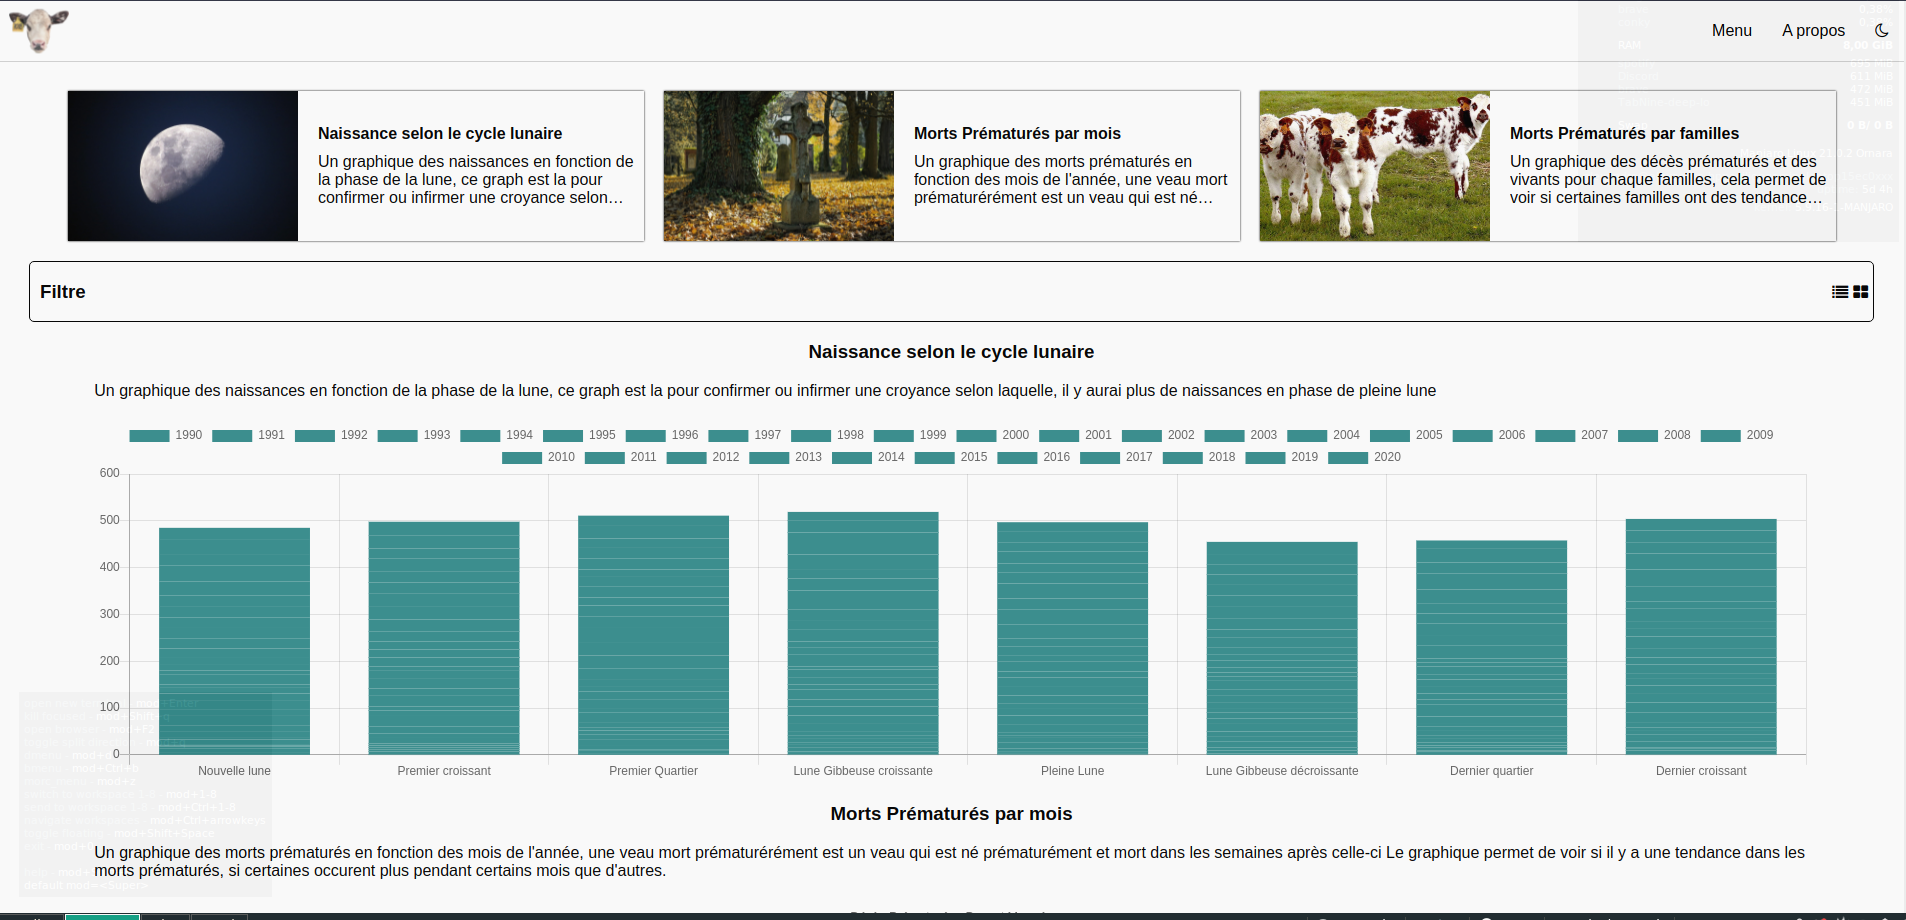
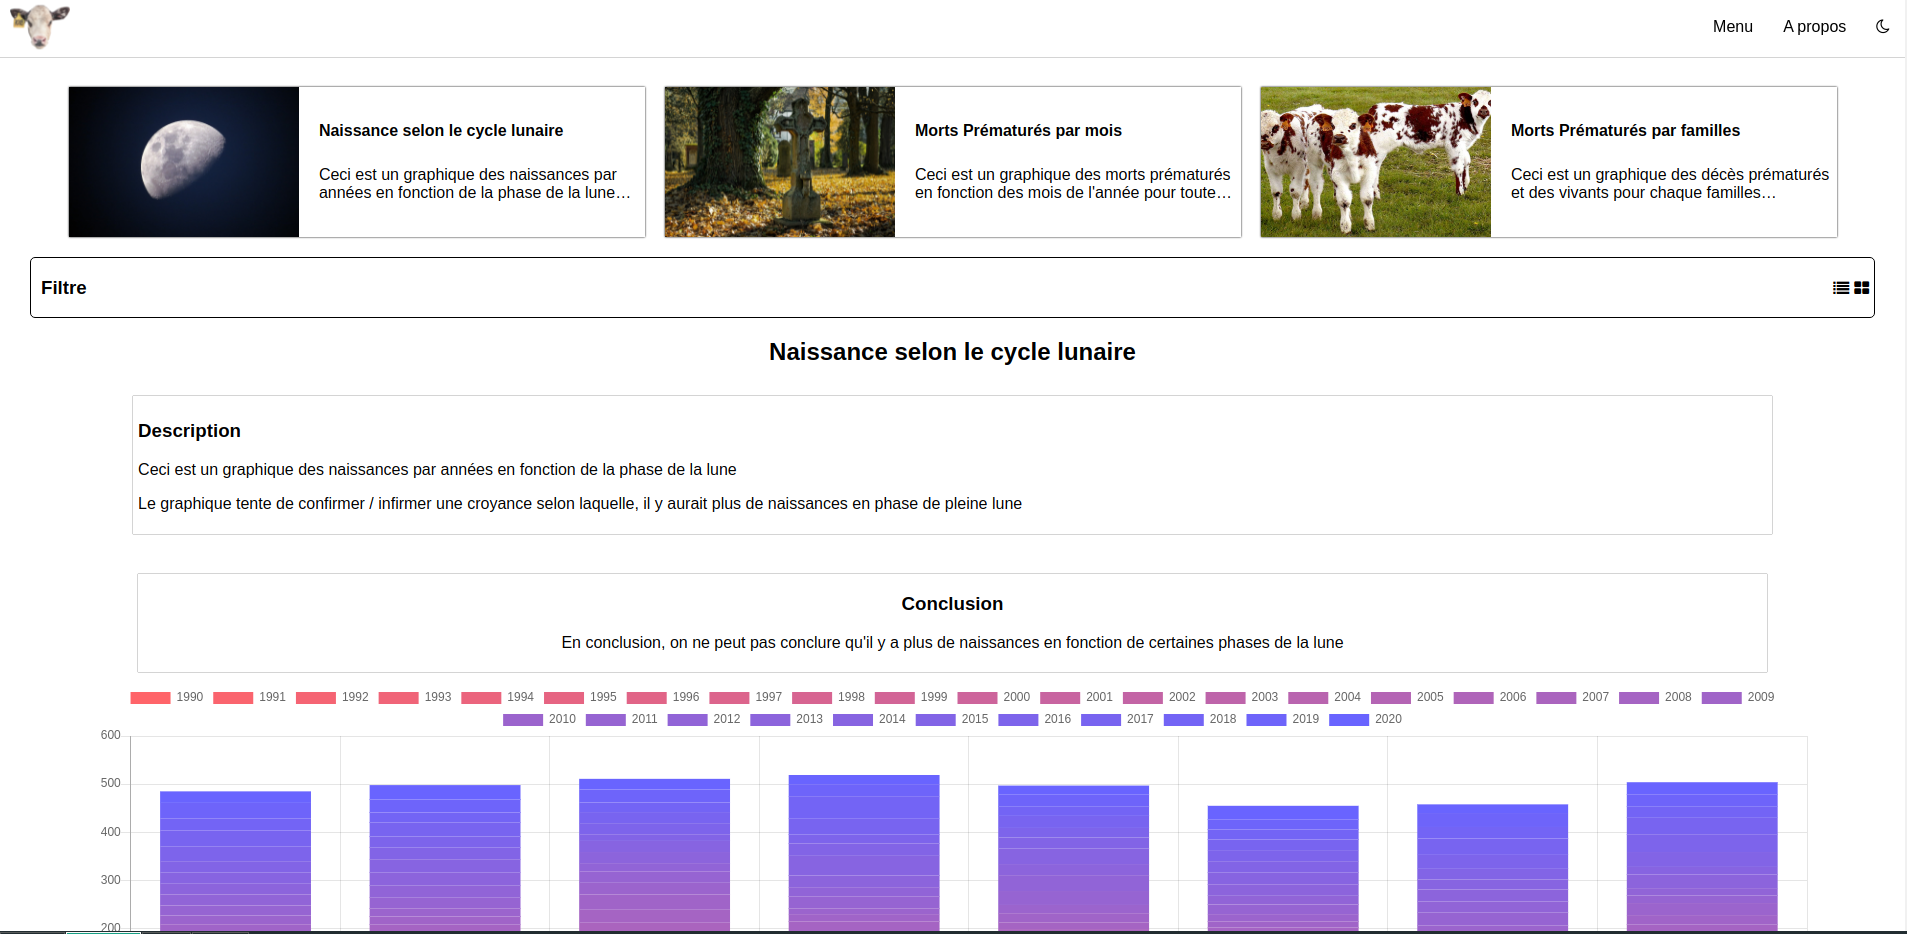
loast correction before submission

diff --git a/src/static/js/index.js b/src/static/js/index.js
@@ -208,7 +208,7 @@ function prematureDeathsByFam(labels, family_dead, family_alive){
             },
             {
                 type: 'bar',
-                label: 'Présents dans la ferme vivant',
+                label: 'Animaux vivants',
                 id: "y-axis-0",
                 backgroundColor: "rgba(120, 120, 255)",
                 data: family_alive,
@@ -276,13 +276,14 @@ addGraphHTML(
     "Morts Prématurés par mois",
     "<p>Ceci est un graphique des morts prématurés en fonction des mois de l'année pour toutes les années, le but de ce graphique est de constater si il y a une tendance dans les morts prématurés, si cela arrivent plus souvent certains mois que d'autres.</p>\n <p>NB: un veau mort prématurément est un veau qui est né avec la complication \"né prématurément\" et qui est mort dans les semaines après sa naissance</p>", 
     "/static/images/death.jpg",
-    "En conclusion, on peut conclure que le nombre de décès prématurés sont plus nombreux dans les deux saisons 'L'été' et 'L'automne'"
+    "En conclusion, on ne peut conclure car il y a peu de données mais on remarque une tendance un nombre de décès prématurés sont plus nombreux dans les deux saisons 'L'été' et 'L'automne'"
 );
 addGraphHTML(
     "premature-deaths-by-family",
     "Morts Prématurés par familles",
     "<p>Ceci est un graphique des décès prématurés et des vivants pour chaque familles</p><p>Le graphique tente de voir si certaines familles ont des tendances génétique à avoir des morts prématurés</p> <p>NB: un veau mort prématurément est un veau qui est né avec la complication \"né prématurément\" et qui est mort dans les semaines après sa naissance</p>",
-    "/static/images/vaches.jpg"
+    "/static/images/vaches.jpg",
+    "On voit de légère tendances pour certaines familles mais trop peu pour conclure"
 );
 
 // Plot the graphs

diff --git a/src/db/db.py b/src/db/db.py
@@ -78,5 +78,5 @@ class DB:
             List[Tuple[int]]: list of tuple with family id as unique element of all animals living
         """
         with self.db as cursor:
-            req: str = "SELECT famille_id FROM animaux, animaux_velages, velages WHERE animaux.presence = 1 AND animaux.id = animaux_velages.animal_id AND velages.id = animaux_velages.velage_id"
+            req: str = "SELECT famille_id FROM animaux, animaux_velages, velages WHERE animaux.mort_ne = 0 AND animaux.decede = 0 AND animaux.id = animaux_velages.animal_id AND velages.id = animaux_velages.velage_id"
             return cursor.execute(req).fetchall()
